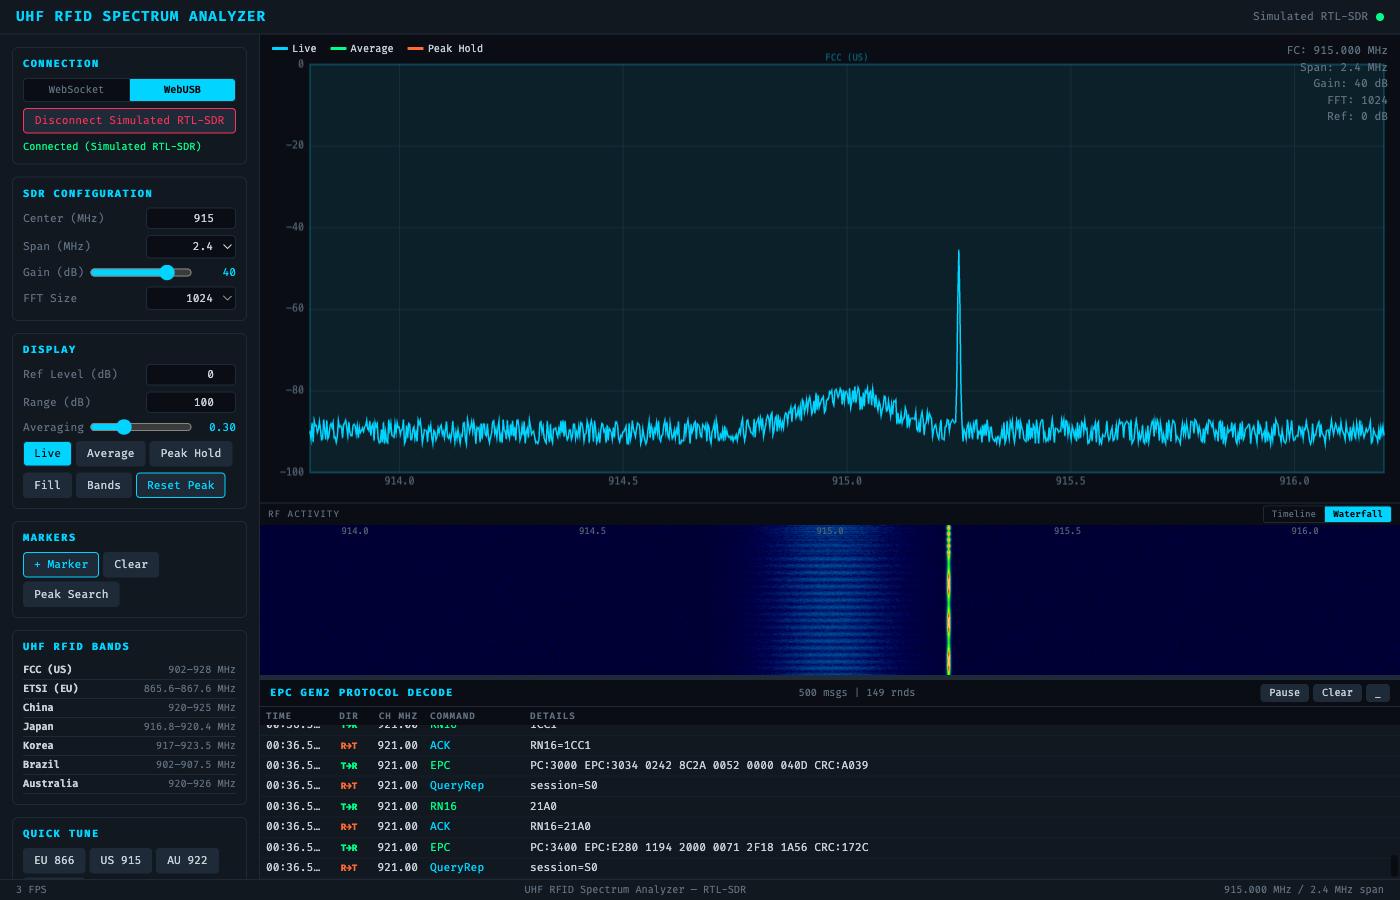
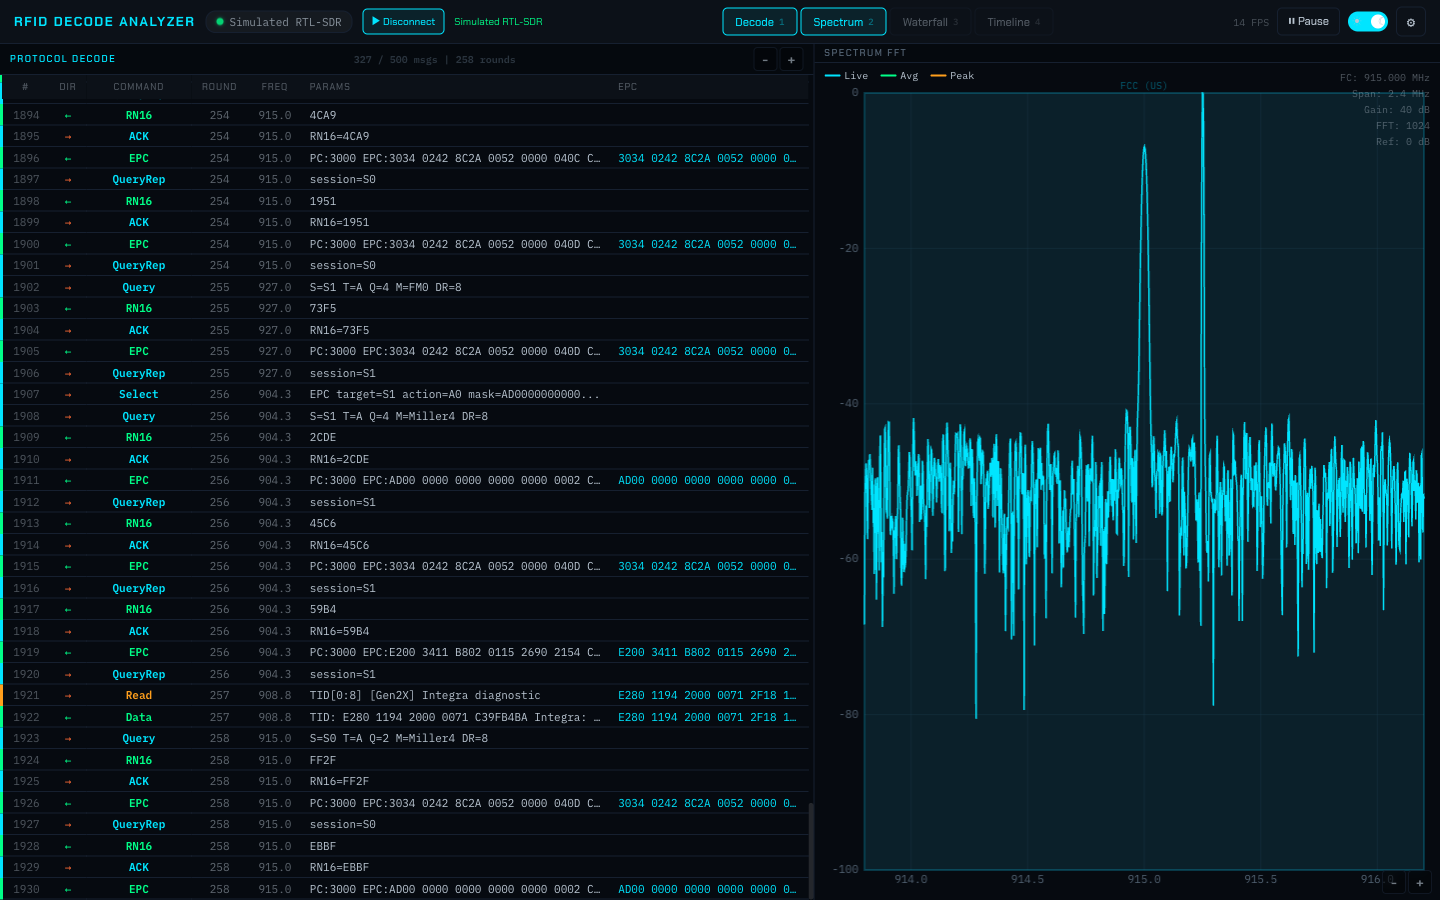
Update README for React UI + new screenshots + add scipy to requirements
Rewrote README to reflect the React/TypeScript frontend, standalone
rfid_decoder.py library, start/stop scripts, and updated file structure.
Replaced old HTML UI screenshots with fresh React UI captures. Added
missing scipy dependency to requirements.txt.

diff --git a/README.md b/README.md
@@ -1,41 +1,44 @@
 # UHF RFID Spectrum Analyzer
 
-Real-time spectrum analyzer for UHF RFID bands (860–960 MHz) using an RTL-SDR dongle. Supports two connection modes:
+Real-time spectrum analyzer and protocol decoder for UHF RFID bands (860–960 MHz) using an RTL-SDR dongle.
 
-- **WebSocket mode** — Python backend controls the RTL-SDR; data streamed to browser via WebSocket
-- **WebUSB mode** — Browser talks directly to the RTL-SDR over USB (no backend needed, Chrome/Edge only)
+- **React + TypeScript** frontend (Vite) with real-time spectrum, waterfall, RSSI timeline, and protocol decode views
+- **Python backend** streams FFT spectrum + decoded RFID commands over WebSocket
+- **Reusable RFID decoder library** (`rfid_decoder.py`) — standalone Gen2 decode + signal processing, usable without the web UI
+- **Simulation mode** — full demo with no hardware needed
 
 ## Features
 
 - Real-time spectrum display with configurable FFT size (256–4096)
 - Waterfall / spectrogram view
 - RSSI timeline with decode message markers
-- **Real-time EPC Gen2 reader command decode** via PIE demodulation (WebUSB mode)
+- **Real-time EPC Gen2 reader command decode** via PIE demodulation from IQ samples
 - EPC Gen2 / Gen2v2 / Gen2X protocol decode panel with round tracking
 - UHF RFID band overlays for FCC, ETSI, China, Japan, Korea, Brazil, Australia
 - Live, average (EMA), and peak-hold traces
 - Frequency markers with peak search
 - Quick-tune presets for regional RFID bands
 - Adjustable center frequency, span, gain, reference level, and dynamic range
-- Simulation mode with full protocol decode demo (no hardware needed)
+- Light / dark theme toggle
+- Device discovery and selection (real RTL-SDR or simulated)
 
 ## Screenshots
 
-### Spectrum + RSSI Timeline with Protocol Decode
+### Spectrum + Protocol Decode
 
-![Spectrum and RSSI timeline view with Gen2 protocol decode](screenshots/spectrum-timeline.png)
+![Spectrum and protocol decode view](screenshots/spectrum-decode.png)
 
-Real-time spectrum display (top), RSSI timeline with decoded command markers (middle), and EPC Gen2 protocol decode table (bottom). Shows inventory rounds, access commands, Gen2v2 security operations, and Gen2X extensions.
+Real-time spectrum FFT (top right), waterfall spectrogram (bottom right), and EPC Gen2 protocol decode table (left) showing inventory rounds, access commands, Gen2v2 security operations, and Gen2X extensions.
 
-### Waterfall View with Protocol Decode
+### Waterfall + Protocol Decode
 
-![Waterfall spectrogram view with decode panel](screenshots/waterfall-decode.png)
+![Waterfall view with decode panel](screenshots/waterfall-decode.png)
 
-Waterfall/spectrogram view showing signal energy over time, with the protocol decode panel displaying Reader→Tag and Tag→Reader message sequences including EPC reads, memory access, and authentication.
+Full waterfall/spectrogram view alongside the protocol decode panel displaying Reader→Tag and Tag→Reader message sequences including EPC reads, memory access, and authentication.
 
 ## Requirements
 
-### WebSocket mode (Python backend)
+**Backend (Python)**
 
 ```
 Python 3.8+
@@ -45,34 +48,40 @@ pip install -r requirements.txt
 Hardware: RTL-SDR dongle (RTL2832U-based)
 
 System: `librtlsdr` must be installed:
-- Debian/Ubuntu: `sudo apt install librtlsdr-dev`
 - macOS: `brew install librtlsdr`
+- Debian/Ubuntu: `sudo apt install librtlsdr-dev`
 - Windows: Zadig driver + librtlsdr DLLs
 
-### WebUSB mode (browser-only)
+**Frontend (Node.js)**
 
-- Chrome, Edge, or Opera (WebUSB support required)
-- HTTPS or localhost
-- Linux: udev rule for RTL-SDR USB access (or run browser as root for testing)
-
-## Usage
-
-### Option 1: WebSocket mode (Python backend)
-
-```bash
-# Start with real hardware
-python server.py
-
-# Start in simulation mode (no RTL-SDR needed)
-python server.py --simulate
-
-# Custom settings
-python server.py -f 915 -r 2.4 -g 40 -n 1024 --fps 20
+```
+Node.js 18+
+npm install
 ```
 
-Then open `http://localhost:8080` in your browser.
+## Quick Start
 
-#### CLI options
+```bash
+# Start both backend + frontend dev server
+./start.sh
+
+# Stop both
+./stop.sh
+```
+
+Then open `http://localhost:8080`, select a device (or **Simulated RTL-SDR** for demo mode), and the spectrum + decode stream starts.
+
+### Manual Start
+
+```bash
+# Backend (WebSocket server on :8765, HTTP on :8080)
+DYLD_LIBRARY_PATH=/opt/homebrew/lib python server.py
+
+# Frontend (Vite dev server on :8080)
+npm run dev
+```
+
+### CLI Options
 
 | Flag | Description | Default |
 |------|-------------|---------|
@@ -84,40 +93,51 @@ Then open `http://localhost:8080` in your browser.
 | `--ws-port` | WebSocket port | 8765 |
 | `--http-port` | HTTP port | 8080 |
 | `--fps` | Target frame rate | 20 |
-| `--simulate` | Simulated SDR data | off |
-
-### Option 2: WebUSB mode (no backend)
-
-Serve the files over HTTPS or localhost:
-
-```bash
-# Simple local server
-python -m http.server 8080
-```
-
-Open `http://localhost:8080` in Chrome/Edge, click **WebUSB** in the sidebar, then **Connect RTL-SDR via USB**.
-
-The browser will prompt you to select the RTL-SDR device. All signal processing (FFT, averaging, peak hold) and protocol decode runs client-side in JavaScript.
-
-### Option 3: Demo mode (no hardware)
-
-```bash
-python -m http.server 8080
-```
-
-Open `http://localhost:8080?demo` — starts the simulated RTL-SDR with full protocol decode demo automatically.
 
 ## File Structure
 
 ```
 rfid-spectrum-analyzer/
-├── index.html           # Main UI (spectrum + waterfall + controls + decode panel)
-├── webusb-rtlsdr.js     # WebUSB RTL-SDR driver + browser-side FFT
-├── pie-decoder.js       # PIE demodulator + EPC Gen2 command parser (real-time decode)
-├── server.py            # Python WebSocket backend
+├── rfid_decoder.py      # Standalone RFID decode library (reusable)
+├── server.py            # WebSocket + HTTP server (imports rfid_decoder)
+├── start.sh             # Start backend + frontend
+├── stop.sh              # Stop both
 ├── requirements.txt     # Python dependencies
-├── screenshots/         # UI screenshots
+├── package.json         # Node.js dependencies
+├── vite.config.ts       # Vite configuration
+├── src/
+│   ├── App.tsx          # Main application layout
+│   ├── main.tsx         # Entry point
+│   ├── theme.ts         # Ant Design theme config
+│   ├── components/      # React components
+│   │   ├── Header.tsx           # Top bar (device, tabs, controls)
+│   │   ├── Sidebar.tsx          # Settings panel
+│   │   ├── DecodePanel.tsx      # Protocol decode container
+│   │   ├── DecodeTable.tsx      # Gen2 command table
+│   │   ├── SpectrumCanvas.tsx   # Spectrum FFT + waterfall canvas
+│   │   ├── TimelineCanvas.tsx   # RSSI timeline canvas
+│   │   └── ...                  # Connection, display, frequency panels
+│   ├── canvas/          # Canvas rendering (spectrum, waterfall, timeline)
+│   ├── services/        # WebSocket connection, PIE decoder, mock data
+│   └── stores/          # Zustand state (appStore, decodeStore)
+├── screenshots/
 └── README.md
+```
+
+### `rfid_decoder.py` — Standalone Library
+
+The RFID decode logic is a standalone Python library that can be imported independently:
+
+```python
+from rfid_decoder import (
+    PIEDecoder,          # Decode Gen2 commands from raw IQ samples
+    MockRFIDDecoder,     # Generate simulated Gen2 command sequences
+    SpectrumAnalyzer,    # RTL-SDR device wrapper + FFT
+    SimulatedAnalyzer,   # Synthetic spectrum generation
+    enumerate_devices,   # RTL-SDR device discovery
+    parse_gen2_command,  # Parse raw bits into Gen2 commands
+    crc5, crc16,         # EPC Gen2 CRC functions
+)
 ```
 
 ## Protocol Reference
